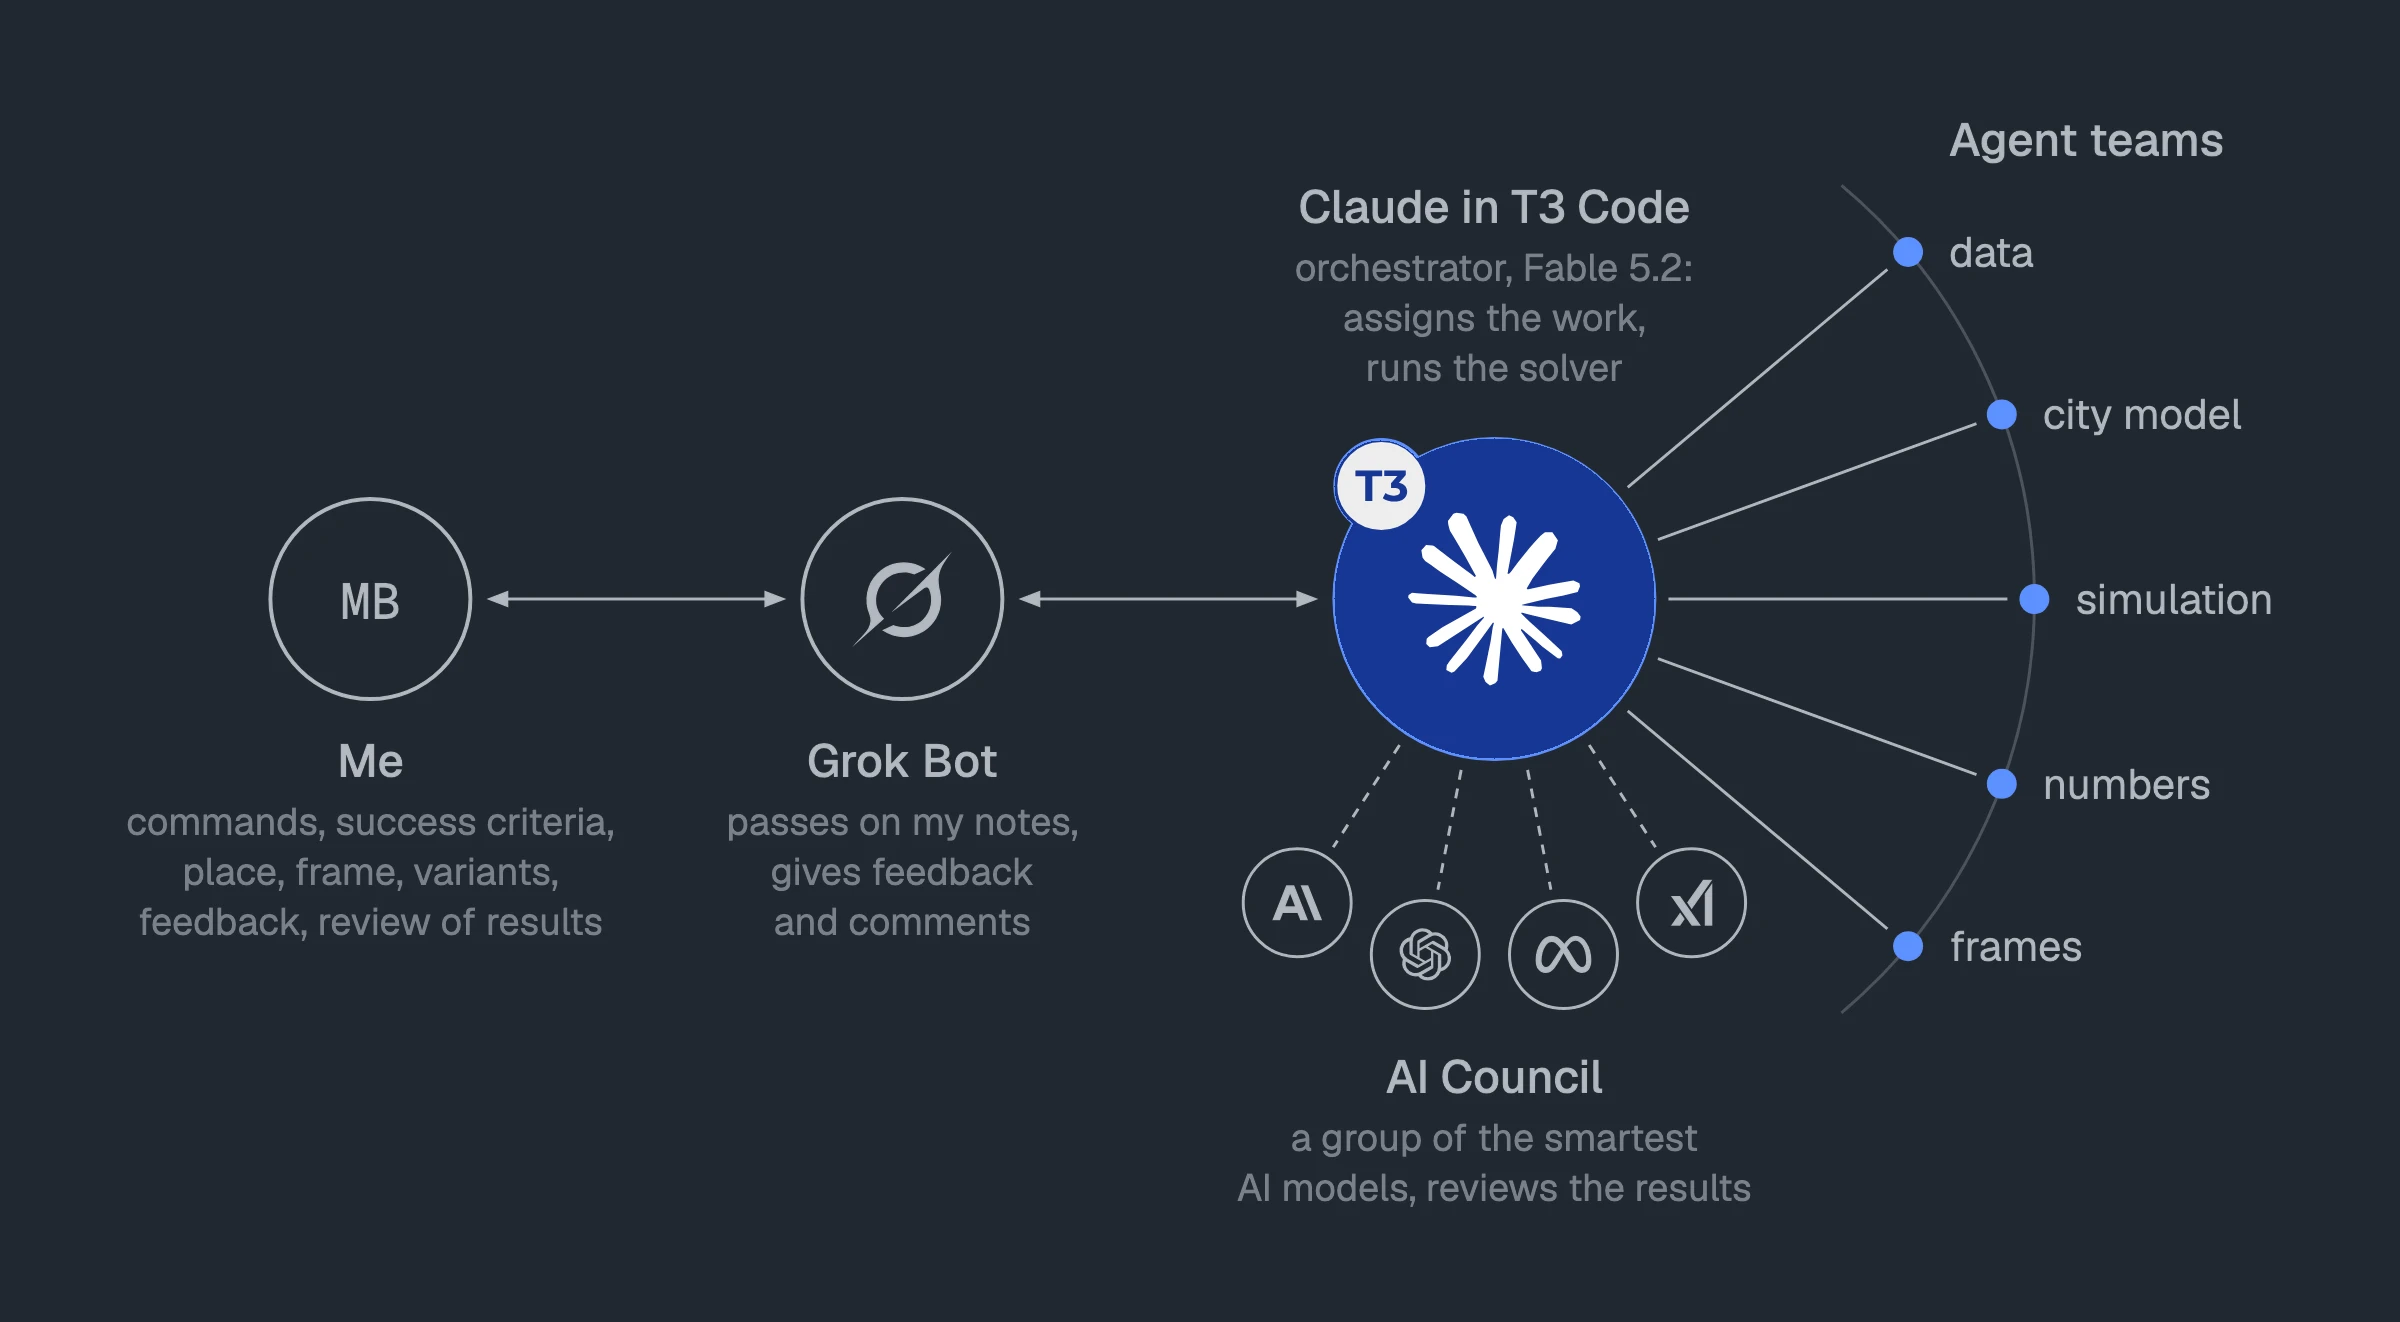
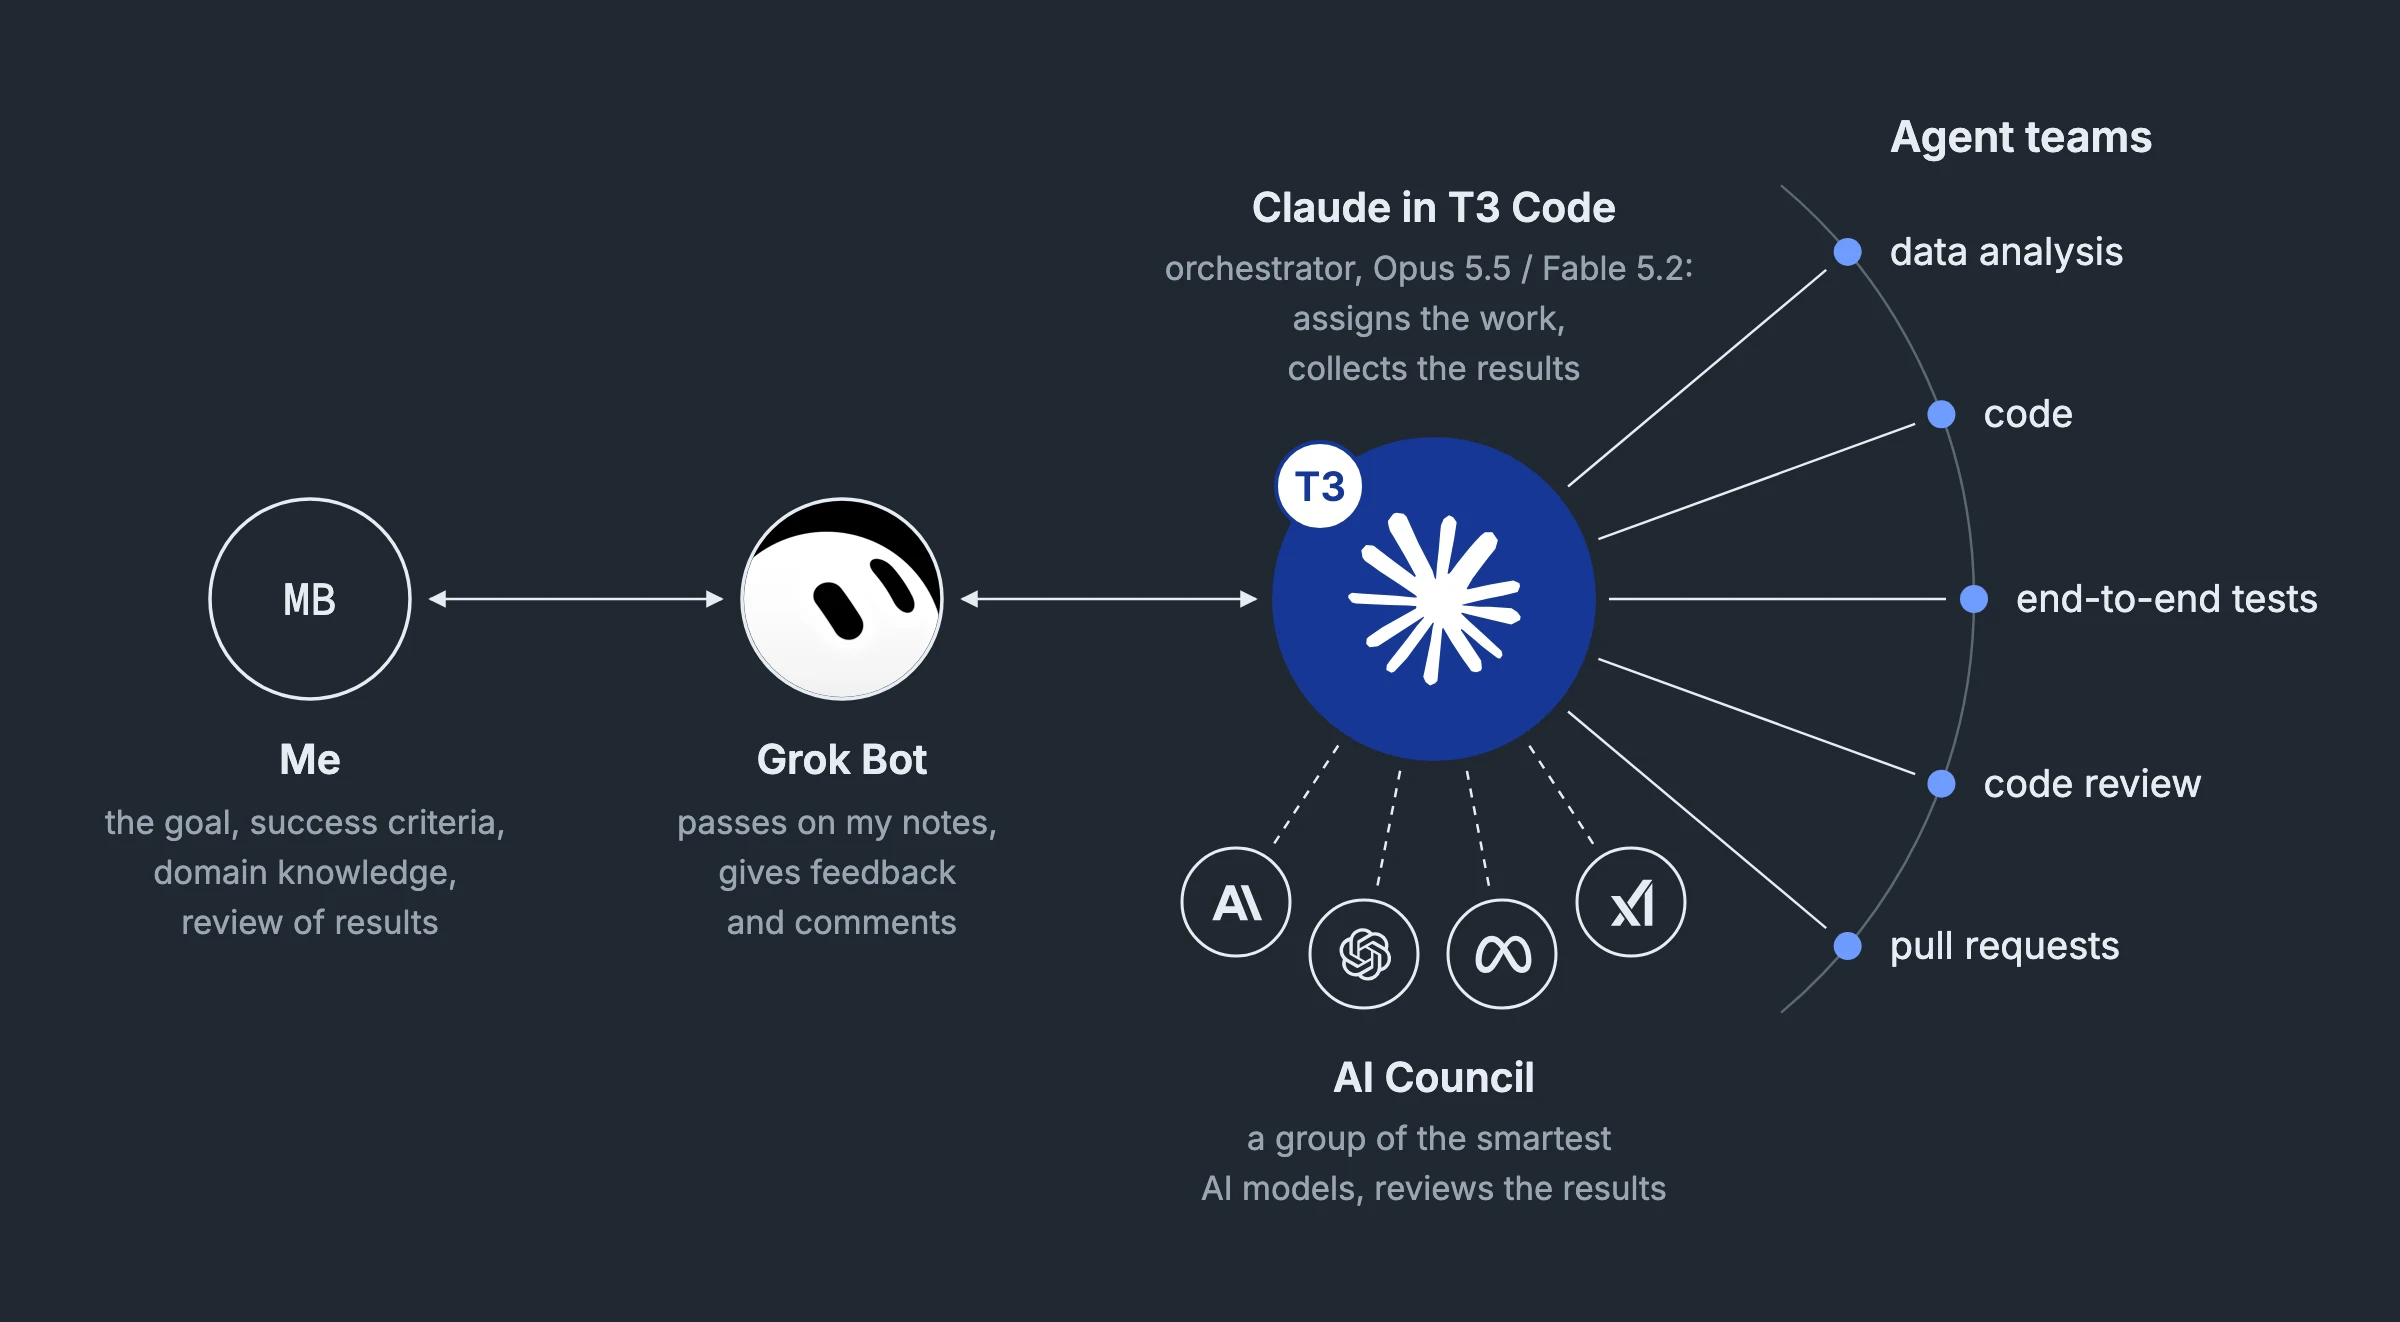
Update Current work and make the agent diagram project-agnostic
Add Proposition Studio (product, post, code map) and IFC Agent, link the
portfolio site and MonoReader's Microsoft Store page. Redraw the agent
diagram with general agent teams, the Grok Bot logo and current models,
in light and dark variants.

diff --git a/README.md b/README.md
@@ -20,7 +20,7 @@ I work directly with clients, from shaping designs with them as an architect to 
 
 <picture>
   <source media="(prefers-color-scheme: dark)" srcset="how-agents-work-dark.webp">
-  <img src="how-agents-work.webp" alt="How the agents worked on the Warsaw Spire wind study: I talk to Grok Bot, which steers the orchestrator, Claude in T3 Code. The orchestrator hands the work to agent teams, and an AI Council of models from four companies reviews the results.">
+  <img src="how-agents-work.webp" alt="How I work with agents: I talk to Grok Bot, which steers the orchestrator, Claude in T3 Code. The orchestrator hands the work to agent teams for data analysis, code, end-to-end tests, code review and pull requests, and an AI Council of models from four companies reviews the results.">
 </picture>
 
 I talk to one agent, Grok Bot. It steers an orchestrator, Claude in [T3 Code](https://github.com/pingdotgg/t3code), which hands the work to teams of agents, while an AI Council of models from four companies reviews the results. Before a task starts I set how the result will be validated and what counts as success. On the [Warsaw Spire wind study](https://mateuszbochynski.com/en/blog/wind-simulation-warsaw-spire?utm_source=github&utm_medium=profile&utm_campaign=readme-method) that meant stopping a convincing but wrong simulation, validating the setup against a wind-tunnel test and raising the match from 57% to 92–94% of points.
@@ -29,9 +29,13 @@ I talk to one agent, Grok Bot. It steers an orchestrator, Claude in [T3 Code](ht
 
 ## Current work
 
+- **[Proposition Studio](https://propositionstudio.com?utm_source=github&utm_medium=profile&utm_campaign=readme-proposition)** · [why I built it](https://mateuszbochynski.com/en/blog/why-i-built-proposition-studio?utm_source=github&utm_medium=profile&utm_campaign=readme-proposition-post) · [code map](https://mateuszbochynski.com/en/code-map?utm_source=github&utm_medium=profile&utm_campaign=readme-code-map): AI visualisation app for architects, built on my own with a team of AI agents and launched with paid plans in October 2026. Each building gets a project with version history, references and region selection, instead of another chat window. An agent-run security audit found 9 vulnerabilities; all were fixed and re-audited the next day.
+
+- **[IFC Agent](https://mateuszbochynski.com/en/blog/harness-that-reads-a-building-model?utm_source=github&utm_medium=profile&utm_campaign=readme-ifc-agent):** An AI agent that answers questions about a building model with a number, shows the database query behind it and highlights the counted elements in 3D. It analysed a 242 MB office model in 15 seconds and, on a real investor's model, refused to guess a volume it had no data for.
+
 - **[Atlas Hotel Assistant](https://mateuszbochynski.com/en/builds/atlas-hotel-assistant?utm_source=github&utm_medium=profile&utm_campaign=readme-atlas):** Production AI assistant serving two hotels. I indexed 304 procedures via Index-First Search over curated Q&A pairs. No vector embeddings. Precision over similarity.
 
-- **[Personal AI Agent](https://mateuszbochynski.com/en/builds/personal-ai-agent?utm_source=github&utm_medium=profile&utm_campaign=readme-chadli):** 24/7 agent running on a Mac Mini M4, navigating a 2,300-note Obsidian knowledge graph via wikilinks. Three-layer memory, cross-tool adapters, Telegram, Slack, and Discord channels.
+- **[Personal AI Agent](https://mateuszbochynski.com/en/builds/personal-ai-agent?utm_source=github&utm_medium=profile&utm_campaign=readme-chadli):** 24/7 agent running on a Mac Mini M4, navigating a 4,500-note Obsidian knowledge graph via wikilinks. Three-layer memory, cross-tool adapters, Telegram, Slack, and Discord channels.
 
 - **[AI Image Studio](https://mateuszbochynski.com/en/builds/ai-image-studio?utm_source=github&utm_medium=profile&utm_campaign=readme-ai-image-studio)** · [code](https://github.com/Bochyn/AI-Image-Studio): Desktop plugin for Rhino 8 that captures 3D viewports and generates photorealistic renders through Gemini and fal.ai. A plugin-based model layer lets me ship new AI models the same day they drop.
 
@@ -39,7 +43,9 @@ I talk to one agent, Grok Bot. It steers an orchestrator, Claude in [T3 Code](ht
 
 - **[Homelab Infrastructure](https://mateuszbochynski.com/en/builds/homelab-infrastructure?utm_source=github&utm_medium=profile&utm_campaign=readme-homelab):** Self-hosted three-machine platform serving 86k photos, media, finances, and a local AI interface. Docker stack behind Cloudflare Tunnel, zero open inbound ports, GPU offload from NAS to laptop.
 
-Also shipping: **[MonoReader](https://mateuszbochynski.com/en/builds/monoreader?utm_source=github&utm_medium=profile&utm_campaign=readme-monoreader)**, a lightweight Windows markdown reader in Tauri + Rust. 4.1 MB binary, published on the Microsoft Store.
+- **[mateuszbochynski.com](https://mateuszbochynski.com?utm_source=github&utm_medium=profile&utm_campaign=readme-site):** My portfolio and blog, where I write up experiments as I run them: a wind simulation around Warsaw Spire, an AI site-capacity study, an agent that reads building models.
+
+Also shipping: **[MonoReader](https://mateuszbochynski.com/en/builds/monoreader?utm_source=github&utm_medium=profile&utm_campaign=readme-monoreader)** · [Microsoft Store](https://apps.microsoft.com/detail/9nhr7vv7zwkt), a lightweight Windows markdown reader in Tauri + Rust. 4.1 MB binary.
 
 ---
 
